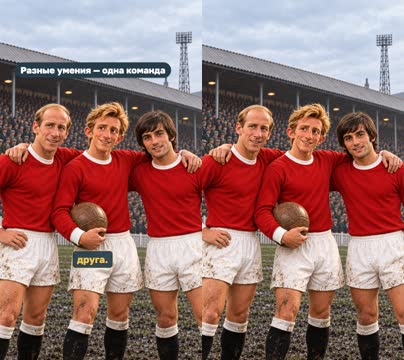
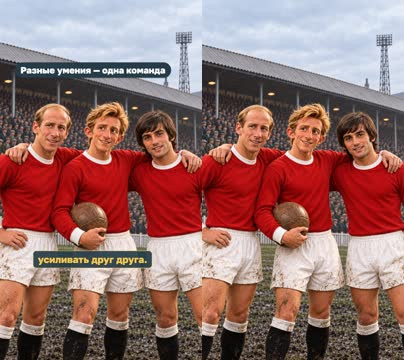
Add King cover and clarify masters narration for Denis Law

Changed region(s): [[0.0594, 0.6722, 0.3861, 0.7639]]

diff --git a/content/videos/football-legends-08-law/PLAN.ru.md b/content/videos/football-legends-08-law/PLAN.ru.md
@@ -5,7 +5,7 @@
 | | |
 |---|---|
 | Статус | **сценарий** · ждёт тебя: одобрить сценарий |
-| Длительность | 82.3 с (по озвучке) · 13 сцен |
+| Длительность | 83.0 с (по озвучке) · 13 сцен |
 | Формат | 1080×1920, 30 fps · style `cartoon` |
 | Голос | omnivoice · assets/voice/narrator-ru.wav · 0.9 |
 | Серия | football-legends |
@@ -14,7 +14,7 @@
 
 | | | Кто и когда |
 |---|---|---|
-| Сценарий | ⚙ техническое (агент) | agent 2026-10-31 |
+| Сценарий | ✏ изменено после одобрения | agent 2026-10-31 |
 | Раскадровка | ⚙ техническое (агент) | agent 2026-10-31 |
 | Выпуск | ⏳ ждёт |   |
 
@@ -22,10 +22,10 @@
 
 ## Вопросы
 
-- [ ] **owner** · Подходят ли имена Денис Лоу, Бобби Чарльтон, Джордж Бест и произношение чисел в готовом MP4?
-- [ ] **owner** · Подходят ли сходство футболистов, атмосфера старого «Олд Траффорд» и имя героя на первом кадре?
+- [ ] **owner** · Подходит ли произношение «эти мастера́ с разными умениями» в новой версии?
+- [ ] **owner** · Подходят ли прозвище «Король» и шутливая корона на заставке?
 
-**Заметки:** Owner script retained verbatim, except pasted source placeholders and section headings; numbers use pronunciation hints with unchanged captions. Frame zero adds the player name to the shared identity. Technical checks do not establish owner editorial or listening approval. Technical final: 82.26s, 13scenes, QA 15/15; both MP4 fully decoded (2466frames each), 36 inspected moments, feed/cover reviewed, 161 caption samples and 76 reverse seeks without geometry failures. 20 imagegen generations, 12 selected. Historical-detail pass, separate period club/national kits, distinct Trinity faces, old Stretford End, player name at frame zero; shifted action captions/statistics and moved clipped ball inside frame. Owner listening/editorial approval remains open. No publication.
+**Заметки:** Revision after owner listening/cover feedback, 31 October 2026: frame zero adds verified nickname The King/«Король» with a playful crown, same hosts and historical backdrop. The supplied body is retained except the team sentence: replace три разных мастера by эти мастера с разными умениями so plural мастера́ is unambiguous; explicit hint мастерА, same OmniVoice B0.90/off. Original counted form три ма́стера was grammatically valid; do not force plural stress onto count/singular forms globally. Prior V1 verification is historical; rerender and regenerate current metrics. Owner listening of revised line remains open. No publication. Current verification: 83.03s, QA15/15, both files decode 2488frames, 36 MP4 moments inspected, 163 caption samples/76 reverse seeks without failures. Only team narration changed; other12 voice file hashes match V1. 21 image generations/12 selected. Current crown cover/feed preview checked. Owner listening still open.
 
 ## Хук
 
@@ -41,11 +41,11 @@
 
 **Голос:** Представьте нападающего, который за карьеру в одном клубе забил больше двухсот голов.
 
-**На экране:** «Маленькие большие дела» · «Легенды футбола» · «Денис Лоу» · «shot»
+**На экране:** «Маленькие большие дела» · «Легенды футбола» · «Денис Лоу · «Король»» · «shot»
 
 **Звук:** swell @0.0, whoosh @3.0
 
-**Факты:** `facts.series.project` = «Маленькие большие дела» · `facts.series.title` = «Легенды футбола» · `facts.series.episode` = «Денис Лоу»
+**Факты:** `facts.series.project` = «Маленькие большие дела» · `facts.series.title` = «Легенды футбола» · `facts.series.episode` = «Денис Лоу · «Король»»
 
 ### 2. identity · 6.3–11.5 с · `illustration`
 
@@ -210,13 +210,13 @@
 
 **Факты:** `facts.skill.charlton` = «Чарльтон — дальний удар» · `facts.skill.best` = «Бест — дриблинг» · `facts.skill.law` = «Лоу — голевое чутьё»
 
-### 12. team · 68.7–74.9 с · `illustration`
+### 12. team · 68.7–75.7 с · `illustration`
 
 ![team: кадр в ключевой момент, затем картинки сцены по порядку](preview/plan/ru/team.jpg)
 
 <sub>кадр в ключевой момент, затем картинки сцены по порядку</sub>
 
-**Голос:** Вот почему футбол — командная игра: три разных мастера могли усиливать друг друга.
+**Голос:** Вот почему футбол — командная игра: эти мастера с разными умениями могли усиливать друг друга.
 
 **На экране:** «Разные умения — одна команда»
 
@@ -226,7 +226,7 @@
 
 **Факты:** `facts.skill.team` = «Разные умения — одна команда»
 
-### 13. question · 74.9–82.3 с · `illustration`
+### 13. question · 75.7–83.0 с · `illustration`
 
 ![question: кадр в ключевой момент, затем картинки сцены по порядку](preview/plan/ru/question.jpg)
 
@@ -248,8 +248,8 @@
 
 | | |
 |---|---|
-| `facts.series` | Owner supplied episode8 script and first-frame player-name requirement, 31 October 2026. |
-| `facts.player` | [S1] https://app.francefootball.fr/ballon-d-or/palmares/; [S2] https://www.manutd.com/en/mutv/videos/detail/video-obituary-of-man-utd-icon-denis-law; [S4] https://www.premierleague.com/en/news/4115640 |
+| `facts.series` | Owner supplied episode8 script and first-frame player-name requirement, 31 October 2026. Owner nickname/metaphor cover request, 31 October 2026; nickname S5 https://www.denislawlegacytrust.org/printfield10/stop-9-manchester-united |
+| `facts.player` | [S1] https://app.francefootball.fr/ballon-d-or/palmares/; [S2] https://www.manutd.com/en/mutv/videos/detail/video-obituary-of-man-utd-icon-denis-law; [S4] https://www.premierleague.com/en/news/4115640; [S5] https://www.denislawlegacytrust.org/printfield10/stop-9-manchester-united |
 | `facts.stats` | [S2] https://www.manutd.com/en/mutv/videos/detail/video-obituary-of-man-utd-icon-denis-law; all first-team Manchester United appearances, not league-only or entire career |
 | `facts.skill` | [S3] https://www.tottenhamhotspur.com/news/1060505/cliffs-united-memories-the-united-trinity; owner script |
 | `facts.story` | Owner supplied episode8 script and first-frame player-name requirement, 31 October 2026. |
@@ -263,3 +263,5 @@
 > Чарльтон, Бест и Лоу: разные умения помогают одной команде. А что выбрал бы ты?
 >
 > Выпуск 8 проекта «Маленькие большие дела · Легенды футбола». Источники: France Football, Manchester United, Premier League, Tottenham Hotspur (воспоминания Клиффа Джонса). Иллюстрации созданы встроенным GPT Image; игровые действия, свет и атмосфера — художественная интерпретация, не запись конкретного матча. Архивный ориентир: Hugo van Gelderen / Anefo, Nationaal Archief, CC0. Голос рассказчика синтетический (OmniVoice).
+>
+> Прозвище Лоу — «Король» (The King); корона на заставке — шутливая метафора, а не исторический факт о костюме.

diff --git a/docs/planning/HANDOFF.md b/docs/planning/HANDOFF.md
@@ -10,7 +10,7 @@
 
 ## Зафиксированные решения
 
-**Выпуск 8 «Денис Лоу — король голов», 31.10.2026:** [собран](../../content/videos/football-legends-08-law/README.md) дословно по тексту владельца, без скопированных источников-заглушек. Новое обязательное правило серии: на первом кадре также имя футболиста через subtitleFrom, вместе с «Маленькие большие дела», «Легенды футбола» и золотым значком; закреплено в AGENTS.md, библии и рецепте. По дополнительному уточнению форма/стадион/атмосфера приближены к архивам: красная клубная и отдельная тёмно-синяя шотландская форма, старый крытый Stretford End, низкие светлые ограждения, пальто/кепки публики, пасмурный северный свет, потёртый газон и кожаный мяч. Поздняя боковая трибуна не перенесена в 1964-й; фантазийная застройка убрана, роли и даты ориентиров в sources.md. Прежние Матвей/София; разные лица Лоу, Чарльтона, Беста. Встроенный GPT Image (версия не раскрыта), 20 генераций/12 выбранных. Отскок/рывок/удар, тройка разных умений, финальный вопрос; статистика 237/404 за клуб во всех турнирах. Субтитры сдвинуты с действия, статистика с руки, мяч помещён внутрь кадра. OmniVoice B0,90/off; имя Де́нис отличается от русского Дени́с произносительной подсказкой, общее словарное происхождение сохранено. 82.26с/13сцен, 1080×1920/30, QA15/15, полный декод обоих MP4 по2466кадров, 36 просмотренных моментов, 161 моментов субтитров/76 обратных переходов без ошибок. Выдача ~/Downloads/football-legends-08-law-2026-10-31/. Одобрения технические, слуховая/редакторская оценка владельца открыта; публикации нет, рост удержания не измерен.
+**Выпуск 8 «Денис Лоу — король голов», актуализация 31.10.2026:** [выпуск](../../content/videos/football-legends-08-law/README.md) обновлён после просмотра владельцем. На первом кадре оба названия серии, значок, имя и проверенное прозвище «Король» (The King, Denis Law Legacy Trust), на картинке добродушная шутка — наклонённая корона. Историческая форма/старый Stretford End/северный свет и прежние Матвей/София сохранены. Новое правило в AGENTS.md, библии/формате и рецепте: имя + проверенное прозвище/отличительная черта + узнаваемая визуальная идея, не выдавать метафору за исторический костюм и не придумывать прозвища. Следующие/намеренно переделанные эпизоды применяют его, старые выдачи автоматически не заменяются. По отзыву об ударении реплика переформулирована: «эти мастера́ с разными умениями…» вместо «три разных ма́стера…»; последнее нормативно после числительного, поэтому глобальную ошибочную замену не внесли. Словарный источник Gramota/mark:false, явная подсказка мастерА только в новой однозначной фразе. Прежний OmniVoice B0,90/off; новая запись только team, хеши других12 реплик неизменны. 83.03с/13сцен, 1080×1920/30, QA15/15, декод по2488кадров, просмотрены 36 моментов MP4 и кропы, 163 моментов субтитров/76 обратных переходов без ошибок. Встроенный GPT Image без раскрытого идентификатора: 21 генерация/12 выбранных. Выдача ~/Downloads/football-legends-08-law-2026-10-31/ обновлена, V1 мастер сохранён в .reel/history/v1. Остальной текст владельца сохранён, цифры237/404 привязаны к источнику. Одобрения технические, слуховая/редакторская оценка владельцем открыта; публикации нет.
 
 **Выпуск 7 «Лев Яшин — вратарь, который получил „Золотой мяч“», 30.10.2026:** [собран](../../content/videos/football-legends-07-yashin/README.md) по тексту владельца с просьбой об остросюжетности и ярких детальных рисунках. Общий первый кадр: «Маленькие большие дела», «Легенды футбола» и золотой значок, прежние Матвей/София. Встроенный GPT Image (версия не раскрыта инструментом), 17 генераций/11 выбранных картинок, архивный эталон лица; тёмный свитер/кепка, мокрый изумрудный газон, сапфир/золото, разные лица и форма команд, отдельная сборная СССР в 1960-м. Игровые действия/свет/погода художественные, не реконструкция матча; адаптации архива с отдельной атрибуцией в CREDITS.md. Добавлен короткий хук «Удар в угол! Успеет ли вратарь?», тело/финальный вопрос сохранены. Полёт, перчатки с мячом, перехват и руководство обороной; титры сдвинуты с действия. Прежний OmniVoice B 0,90/off; оборвавшийся ответ «Правильно, вратарь» восстановлен объединением реплик, новая запись совпадает на100%; голы́ с ударением наЫ сохранены. 90.19 с, 17 сцен, 1080×1920/30fps, QA 15/15, полный декод обоих MP4 по 2702 кадров, 46 просмотренных моментов, 175 моментов субтитров/98 обратных переходов без ошибок. Выдача ~/Downloads/football-legends-07-yashin-2026-10-30/. Одобрения только технические, оценка голоса/выпуска владельцем открыта; публикации нет. Эффект удержания не измерен.
 

diff --git a/content/videos/football-legends-08-law/README.md b/content/videos/football-legends-08-law/README.md
@@ -2,6 +2,8 @@
 
 Выпуск 8 «Маленькие большие дела · Легенды футбола». На первом кадре читаются оба названия, имя **Денис Лоу** и общий значок золотого мяча. Ведущие Матвей и София прежние. [Сценарий](ru.reel.yaml) · [факты](facts.json) · [источники](sources.md) · [кредиты](CREDITS.md) · [план](PLAN.ru.md) · [ревью](review.yaml).
 
+**Обновление по отзыву владельца:** на превью добавлены прозвище **«Король»** (The King) и добродушная визуальная шутка — чуть съехавшая корона на Лоу. Историческая форма, стадион и ведущие сохранены; корона — художественная метафора. В реплике о команде теперь «эти мастера́ с разными умениями…», с прежним голосом и подсказкой мастерА. Это точечная переформулировка: после числительного «три» нормативна иная форма «ма́стера». Общий принцип «имя + проверенное прозвище/черта + узнаваемая визуальная идея» закреплён для следующих выпусков.
+
 История начинается с двухсот голов за один клуб; отскок, рывок и удар показывают голевое чутьё. Затем статистика и тройка Лоу—Чарльтон—Бест объясняют командный вывод. Текст владельца сохранён, картинки меняются по репликам; улучшение удержания не измерено.
 
 После уточнения владельца форма и среда приближены к архивам: красная клубная/отдельная тёмно-синяя шотландская форма, старая крытая терраса Stretford End, низкие светлые ограждения, зрители в пальто, пасмурный северный свет, потёртый газон и кожаный мяч. Убраны выдуманные дома/трубы и шотландский городской силуэт. Стадион перестраивали в середине десятилетия: ориентир 1966 года используется для старой торцевой трибуны, без переноса поздней боковой конструкции в 1964-й. Это художественная интерпретация периода, не реконструкция конкретного матча. У трёх игроков разные лица: светлый Лоу, редеющие волосы Чарльтона и тёмные волосы Беста.
@@ -12,10 +14,10 @@
 
 ## Техническая проверка
 
-82,26 с, 13 сцен, 1080×1920/30 fps, H.264/AAC, −14 LUFS. QA 15/15. Оба файла полностью декодируются по 2466 кадров. Просмотрены 36 моментов готового MP4, включая начало/конец и смены по репликам; кропы ленты и обложки. 161 моментов субтитров и 76 обратных переходов без ошибок геометрии. Субтитры игровых планов подняты над мячом/бутсами, статистика перенесена с поднятой руки, мяч в ударе сдвинут внутрь кадра.
+Текущая версия с короной и уточнённой репликой: 83,03 с, 13 сцен, 1080×1920/30 fps, H.264/AAC, −14 LUFS. QA15/15; полный декод обоих MP4 по 2488 кадров. Просмотрены 36 моментов готового MP4, включая первый/последний кадр, переход заставки, изменённую реплику и финальный вопрос; также лента/обложка. 163 моментов субтитров и 76 обратных переходов без ошибок. Корона, имя, прозвище и общий титул помещаются в центральный квадрат. Подписи не закрывают мяч/бутсы и поднятую руку.
 
-20 генераций встроенным GPT Image, 12 картинок выбраны. Ранние условные фоны и варианты с ошибками не вошли в монтаж; промпты и хеши сохранены. Все реплики совпадают по проверке источников озвучки; это не подтверждение ударений. Контекстный bench: три пробы, WER с учётом разных записей чисел не трактуется как оценка ударений. Выбор голоса прежний, оценка на слух владельцем открыта.
+21 генерация встроенным GPT Image, 12 картинок выбраны; исходные и отклонённые варианты различены в images.json. Только team получил новую запись: хеши остальных 12 реплик совпадают с V1. Сравнение/контекстная проба сохранены локально, источник нормы — в sources.md. Слуховая оценка владельцем остаётся открытой; распознавание не подтверждает ударение.
 
 [QA](preview/QA.md) · [верификация](preview/verification.json) · [превью](preview/reels.jpg) · [лента 4:5](preview/feed-preview.jpg) · [обложка 1:1](preview/cover-preview.jpg).
 
-Выдача: `~/Downloads/football-legends-08-law-2026-10-31/` — мастер, web, субтитры, обложка, раскадровка, QA, POST.txt, UPLOAD.txt и manifest.json. Оригиналы иллюстраций, архивные фото, голос и видео вне Git. Публикации нет.
+Выдача: `~/Downloads/football-legends-08-law-2026-10-31/` — обновлённые мастер, web, субтитры, обложка, раскадровка, QA, POST.txt, UPLOAD.txt и manifest.json. Предыдущий мастер сохранён локально в .reel/history/v1, текущая выдача заменена по просьбе владельца. Оригиналы вне Git. Публикации нет.

diff --git a/content/series/football-legends.md b/content/series/football-legends.md
@@ -21,6 +21,8 @@
 
 ## Как выглядит
 
+**Дополнение владельца от 31.10.2026 после просмотра выпуска 8:** на заставке также показывать проверенное прозвище или короткую отличительную черту игрока и обыгрывать её узнаваемой, доброй визуальной шуткой. У Лоу — «Король» (The King, источник фонда его наследия) и чуть съехавшая золотая корона. Имя, оба общих названия и значок награды остаются; прозвище/черта идут в строке с именем. Если устойчивое прозвище не подтверждено, не придумывать его как исторический факт: использовать редакторское описание умения. Для каждого выпуска — собственная идея из его истории; сохранить героев, историческую форму и стадион, проверять дополнительный предмет и весь титул в центральном квадрате. Корона — метафора, не исторический костюм Лоу. Правило для следующих и намеренно переделываемых выпусков; прежние файлы автоматически не заменяются.
+
 **Поправка владельца от 31.10.2026:** на самом первом кадре обязательно также **имя футболиста**. Полная связка: «Маленькие большие дела» + «Легенды футбола» + золотой футбольный значок + имя героя; всё читается при `t=0` и сохраняется в центральном квадрате. В `series-cover` использовать `subtitleFrom: facts.series.episode`, где записано имя. После добавления строки заново проверить место над лицами/ушами, не сжимая весь монтаж. Впервые применено к [выпуску 8, Денис Лоу](../videos/football-legends-08-law/README.md); прежние выдачи без отдельного запроса не заменяются. Форма, стадион и атмосфера приближаются к историческим источникам: фиксировать дату и роль фото, различать перестройки трибун и эпохи воротников, убирать выдуманные городские силуэты и современные детали. Художественный 3D-стиль и одежда ведущих прежние; точность периода не означает документальную реконструкцию матча.
 
 **Уточнение владельца от 30.10.2026, действует для новых и переделываемых выпусков:** общий первый кадр — точные названия «Маленькие большие дела» и «Легенды футбола» со значком золотого футбольного мяча. Всё видно уже при `t=0`, без пустого вступления; голос начинает историю сразу. Сцена [series-cover](../../production/scenes/series-cover.js), [общая тема](../../production/styles/cartoon/football-legends.css) и [значок](../../production/styles/cartoon/golden-ball.svg) общие, фон — из мира конкретного выпуска. После короткого чтения титула — переход по реплике к игровому кадру. Названия и лица в центральном квадрате, фон на весь экран. В этой итерации применено к Сивори и новому Масопусту; старые выдачи других эпизодов автоматически не заменены. [Производственный рецепт](../../docs/how-to/football-series.md).

diff --git a/content/videos/football-legends-08-law/sources.md b/content/videos/football-legends-08-law/sources.md
@@ -2,6 +2,10 @@
 
 Checked 31 October 2026. Owner script retained; copied source placeholders removed. Labels and numbers bind to facts.json. Gameplay is illustrative, not reconstruction of a named match.
 
+Revision after owner feedback: the team clause now says «эти мастера с разными умениями могли усиливать друг друга» instead of «три разных мастера…». The rest of the body/final question remains unchanged. This preserves the lesson while using unambiguous plural мастера́ with pronunciation hint мастерА. [Gramota, мастер](https://gramota.ru/meta/master) distinguishes genitive singular ма́стера from nominative plural мастера́; [numeral rule](https://gramota.ru/poisk?mode=spravka&query=Два%2C+три%2C+четыре&simple=0) requires the singular genitive after три. Thus the initial agent claim that три мастера needs final stress was corrected, not put into a global pronunciation override. The shared entry uses mark:false to preserve contextual distinctions.
+
+- **S5 — Denis Law Legacy Trust, [Manchester United](https://www.denislawlegacytrust.org/printfield10/stop-9-manchester-united)**: nickname “The King”. Cover subtitle uses «Денис Лоу · „Король“». The oversized tilted crown is an owner-requested comic metaphor; no claim he wore one historically. «Король голов» in the episode title is the owner's editorial description, not asserted as the exact historical nickname.
+
 - **S1 — France Football, [award winners](https://app.francefootball.fr/ballon-d-or/palmares/)**: “1964 Denis Law”. Award year; not the season label 1964/65. Also [UEFA obituary](https://www.uefa.com/news-media/news/0295-1cd6a40211ec-e6c1b1505feb-1000--ballon-d-or-winner-denis-law-mourned/).
 - **S2 — Manchester United, [Denis Law: 1940–2025](https://www.manutd.com/en/mutv/videos/detail/video-obituary-of-man-utd-icon-denis-law)**: “237 goals in 404 appearances”. Club first-team totals across competitions, not league-only, international totals or all clubs. Cross-check: [PFA tribute](https://www.thepfa.com/news/2025/1/20/the-pfa-remembers-denis-law).
 - **S3 — Tottenham Hotspur, [Cliff Jones recalls the United Trinity](https://www.tottenhamhotspur.com/news/1060505/cliffs-united-memories-the-united-trinity)**, 14 March 2015. Contemporary opponent recalls the complementary abilities of Charlton, Best and Law. Interpretation: Charlton's long shooting, Best's dribbling and Law's positioning explain the owner's team lesson; they are not exclusive abilities or a claim that every pictured action happened. No specific match score is implied.
@@ -20,4 +24,4 @@ The final art retains a family3D interpretation. Period wool/cotton, worn turf, 
 
 ## Voice and pronunciation
 
-OmniVoice B, speed0.90, stress off, original synthetic reference. [Лоу, Денис](https://ru.wikipedia.org/wiki/Лоу,_Денис) gives Де́нис Ло́у: the Scottish player differs from Russian Дени́с. Shared dictionary records the phonetic alias Дэнис; the script hint preserves the displayed spelling Денис. Ча́рльтон, Бо́бби and name forms are recorded in the shared lexicon. Three contextual probes in voice-bench.yaml are diagnostic, not owner listening approval or proof of correct stress. Technical word matching cannot establish stress. Model weights CC-BY-NC, code Apache-2.0, independent of Storygro's licence.
+OmniVoice B, speed0.90, stress off, original synthetic reference. [Лоу, Денис](https://ru.wikipedia.org/wiki/Лоу,_Денис) gives Де́нис Ло́у: the Scottish player differs from Russian Дени́с. Shared dictionary records the phonetic alias Дэнис; the script hint preserves the displayed spelling Денис. Ча́рльтон, Бо́бби and name forms are recorded in the shared lexicon. Four contextual probes in voice-bench.yaml, including the revised masters line, are diagnostic, not owner listening approval or proof of correct stress. Technical word matching cannot establish stress. Model weights CC-BY-NC, code Apache-2.0, independent of Storygro's licence.

diff --git a/AGENTS.md b/AGENTS.md
@@ -26,6 +26,7 @@ Read [the handoff](docs/planning/HANDOFF.md), [architecture](docs/explanation/ar
 - For the current `micro1-work-data` episode, the owner selected audition C: the original Russian Qwen3 reference, `speed: 0.96`, after rejecting Dima's youthful timbre. Preserve this episode's chosen voice; passing ASR does not establish the owner's preference for another timbre. Other existing episodes retain their own voice settings.
 - New production content belongs in `content/videos/<id>/`; examples remain regression/reference material. Use `content/ideas/` and the `ideas`/`trends` commands for editorial selection. Signals are not proof of claims or a forecast of reach. Start a new episode from a style (`storygro new <folder> --style <id>`); see [use a style](docs/how-to/use-a-style.md).
 - **Football Legends first frame and historical detail (owner, 2026-10-31):** every new/remade episode starts with «Маленькие большие дела», «Легенды футбола», the golden-football symbol **and the player's name**, all readable at frame zero and inside the central square. Use `series-cover` with `subtitleFrom: facts.series.episode`; compose faces/ears below the enlarged title card. Research period kits, venue and atmosphere against dated references, distinguishing stadium redevelopment and later kit variants. Remove fantasy skylines and modern details; keep the approved hosts and family3D medium. Record reference dates, roles and reconstruction limits. See [series recipe](docs/how-to/football-series.md) and [series bible](content/series/football-legends.md). Earlier deliveries are not silently replaced.
+- **Recognisable episode covers (owner, 2026-10-31):** also show the player's verified nickname or a concise distinctive trait and express it in the artwork with a clear, playful visual idea (Law: «Король» and a tilted crown). Preserve all shared titles, emblem and player name. Source real nicknames; label editorial traits as descriptions rather than historical aliases, and distinguish visual jokes from period fact. Keep the approved hosts, accurate underlying kit/venue and the whole identity/faces inside the central square. Apply to future/newly remade episodes; do not silently replace earlier deliveries.
 - Generated pictures carry no text: headlines, numbers and labels are overlays bound to facts. Pictures stay out of Git (`shots/` is ignored); `images.json` records prompt, seed, model, licence and checksum. Keep transcripts and frames of other people's videos in ignored `private/`; take principles from references, never their characters, frames, script, music or voice.
 - Changing scene code, theme, facts or assets resets the storyboard approval; re-render after the last change before packaging.
 - **Content workflow (owner, 2026-10-20):** every episode folder keeps the script (`<lang>.reel.yaml`), `facts.json` with `_source`, `sources.md`, `images.json`, `review.yaml` and the generated plan `PLAN.<variant>.md` with `preview/plan/` strips — all in Git. Approvals go script → storyboard → release and are written by `storygro approve --step …` to `review.yaml`; an agent passes `--agent` (technical) and never records or edits an owner approval. Put questions for the owner in `review.yaml`, regenerate the plan (`storygro plan`) after every change and the tracker (`storygro tracker content/videos --md content/TRACKER.md`) before committing. Never edit `PLAN.*.md` or `TRACKER.md` by hand. See [content workflow](docs/explanation/content-workflow.md).

diff --git a/content/TRACKER.md b/content/TRACKER.md
@@ -45,7 +45,7 @@
 | [Омар Сивори — маленький волшебник с мячом](videos/football-legends-05-sivori/PLAN.ru.md) | ru (ru) | football-legends | сценарий | ждёт тебя: одобрить сценарий | ⚙ ⚙ ⏳ | 81.3 с | pass | 7/7 | 2 | — |
 | [Йозеф Масопуст — гол в финале чемпионата мира](videos/football-legends-06-masopust/PLAN.ru.md) | ru (ru) | football-legends | сценарий | ждёт тебя: одобрить сценарий | ⚙ ⚙ ⏳ | 88.1 с | pass | 4/4 | 2 | — |
 | [Лев Яшин — вратарь, который получил «Золотой мяч»](videos/football-legends-07-yashin/PLAN.ru.md) | ru (ru) | football-legends | сценарий | ждёт тебя: одобрить сценарий | ⚙ ⚙ ⏳ | 90.2 с | pass | 5/5 | 2 | — |
-| [Денис Лоу — король голов](videos/football-legends-08-law/PLAN.ru.md) | ru (ru) | football-legends | сценарий | ждёт тебя: одобрить сценарий | ⚙ ⚙ ⏳ | 82.3 с | pass | 5/5 | 2 | — |
+| [Денис Лоу — король голов](videos/football-legends-08-law/PLAN.ru.md) | ru (ru) | football-legends | сценарий | ждёт тебя: одобрить сценарий | ✏ ⚙ ⏳ | 83 с | pass | 5/5 | 2 | — |
 | [Звёзды футбола: собираем альбом](videos/football-stars-kids/PLAN.ru.md) | ru (ru) | kids-football | сценарий | ждёт тебя: одобрить сценарий | ⏳ ✏ ⏳ | 117.5 с | pass | 14/14 | 3 | — |
 | [Будущее работы — кто отвечает за результат](videos/future-of-work/README.md) | ru (ru) | business-explainers | раскадровка | ждёт тебя: одобрить раскадровку | — ✏ ⏳ | 76.8 с | pass | 2/2 | — | — |
 | [Интер Майами: финальный пас](videos/inter-miami-magic-pass/PLAN.ru.md) | ru (ru) | — | сценарий | ждёт тебя: одобрить сценарий | ⚙ ✏ ⏳ | 114.5 с | pass | 7/7 | 1 | — |

diff --git a/docs/how-to/football-series.md b/docs/how-to/football-series.md
@@ -17,3 +17,5 @@ Episode 5 applies the shared cover to Turin without changing its selected narrat
 Keep a short answer with its question and a conjunction-led clause with its preceding sentence when isolated takes truncate or lose words. Change the illustration on an aligned cue inside that narration beat. Preserve every supplied word, verify the replacement, and rerun full-file speech QA; do not lower its threshold to accept a fragment.
 
 [Episode 8](../../content/videos/football-legends-08-law/README.md) adds the mandatory player name using the existing subtitle contract. Its historical-detail pass uses period kit references and old Stretford End geometry: distinguish the older end terrace from the side stand rebuilt during the mid1960s. Record the date and role of every archive reference; a later photograph may support an unchanged detail, not the whole earlier panorama. Remove fantasy city skylines, modern sponsors and generic stadium architecture. Keep the family3D medium and established host clothing; historical closeness does not imply an exact match reconstruction. Earlier delivered episodes are not silently reissued.
+
+The owner's further cover amendment (31 October 2026) adds a **verified nickname or distinctive trait plus a recognisable playful visual idea**, starting with Law's «Король»/The King and a slightly tilted crown. Put the nickname/trait with the player name in the data-bound subtitle; retain both shared titles and the football emblem. Research an actual nickname before presenting it as one; if none is established, use a clearly editorial skill/trait description. Develop a different metaphor for each episode, tied to its story. A comic accessory is a visual metaphor, not evidence of a historical costume or event: retain the period kit, venue and cast underneath it. Recheck the central square with the new accessory and extra title length. Apply to subsequent/newly remade episodes.

diff --git a/content/videos/football-legends-08-law/CREDITS.md b/content/videos/football-legends-08-law/CREDITS.md
@@ -1,6 +1,7 @@
 # Credits
 
-- Script and player-name cover requirement: owner, 31 October 2026. Supplied body/final question preserved; numerical and name pronunciation hints leave captions unchanged.
+- Script and player-name cover requirement: owner, 31 October 2026. Supplied body/final question retained except the team-clause revision below; numerical and name pronunciation hints leave captions unchanged.
+- Revision requested after listening: team sentence becomes «эти мастера́ с разными умениями…» to express plural stress without incorrectly stressing the counted form «три ма́стера». Meaning retained, one phrase reworded. Nickname cover and playful crown requested by owner; The King verified against Denis Law Legacy Trust. The crown is a metaphor, not a historical coronation.
 - Hosts: original owner-approved Matvey/Sofia, same faces and clothes. Reference provenance in the series cast ledger.
 - Illustrations: built-in GPT Image; exact model identifier not exposed. Prompts and hashes in images.json. Drafts and selected originals local, outside Git. No seed reproducibility claimed.
 - Archive appearance/kit reference: Hugo van Gelderen / Anefo, Nationaal Archief, [United/Willem II 1963](https://commons.wikimedia.org/wiki/File:WillemIIManchesterUnited1963b.jpg), [CC0 1.0](https://creativecommons.org/publicdomain/zero/1.0/). Other archive views studied for historical detail; their rights remain separate, no source photos distributed. See sources.md for roles and date limitations.

diff --git a/content/videos/football-legends-08-law/preview/QA.md b/content/videos/football-legends-08-law/preview/QA.md
@@ -8,10 +8,10 @@ File: `.reel/ru/football-legends-08-law-ru.mp4` (relative to the spec)
 |---|---|---|
 | Codec and pixels | pass | h264, yuv420p |
 | Size | pass | 1080×1920 |
-| Audio track | pass | Audio: aac (LC) (mp4a / 0x6134706D), 48000 Hz, stereo, fltp, 198 kb/s (default) |
-| Length | pass | 82.26 s (planned 82.26 s) |
+| Audio track | pass | Audio: aac (LC) (mp4a / 0x6134706D), 48000 Hz, stereo, fltp, 199 kb/s (default) |
+| Length | pass | 83.03 s (planned 83.03 s) |
 | Loudness | pass | -14 LUFS integrated (target -14), true peak -1.1 dBFS |
-| Frame 0 is a hook | pass | contrast 3506 (needs content, not a black frame) |
+| Frame 0 is a hook | pass | contrast 3488 (needs content, not a black frame) |
 | No black stretches | pass | none ≥ 0.4 s |
 | Scenes render without errors | pass | 13 scenes, missing images/fonts included |
 | Numbers come from the facts | pass | 13 scenes read |
